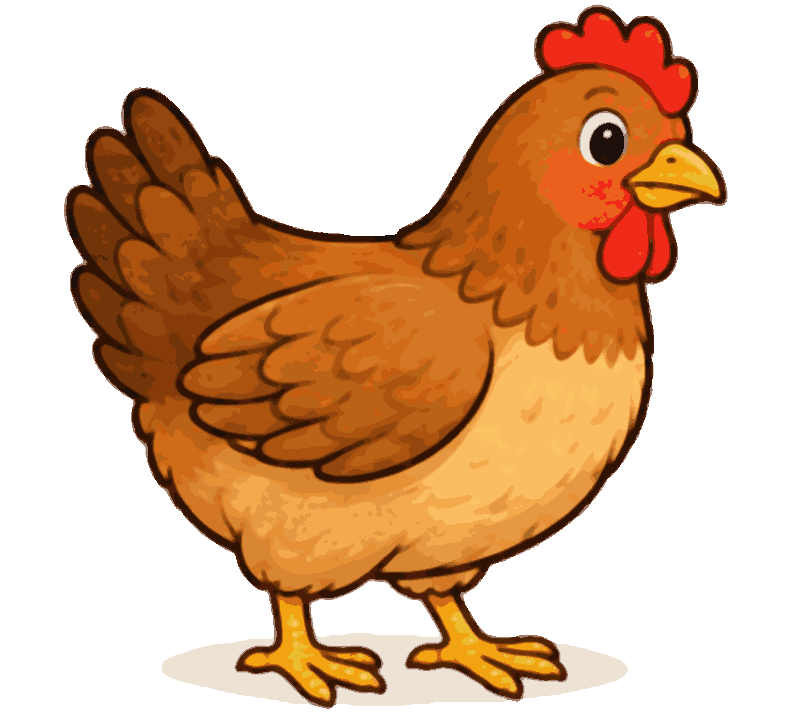
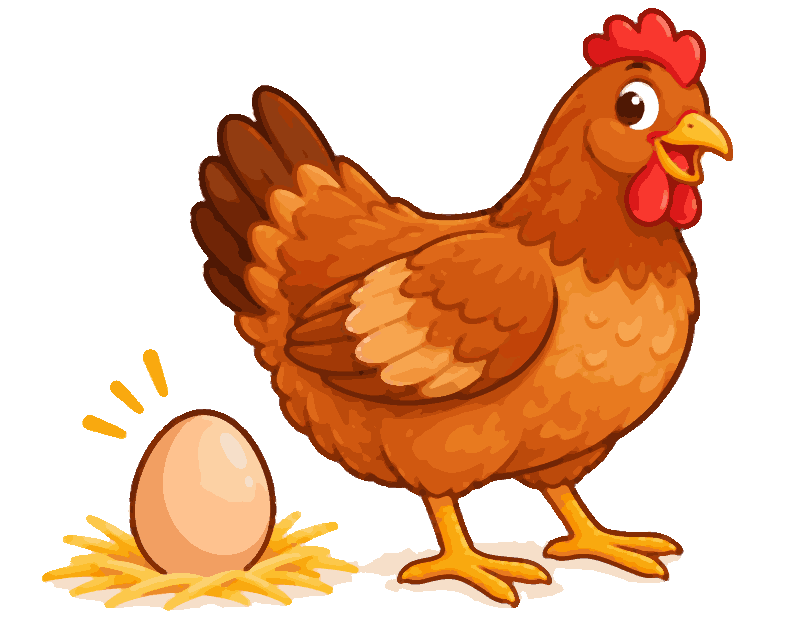
new words

diff --git a/data.js b/data.js
@@ -264,6 +264,106 @@ const cardSets = {
         word: "mop",
         rendering: "o",
         image: "images/mop.png"
+      },
+      {
+        word: "wig",
+        rendering: "i",
+        image: "images/wig-800_32.png"
+      },
+      {
+        word: "joy",
+        rendering: "o",
+        image: "images/joy-800_32.png"
+      },
+      {
+        word: "nap",
+        rendering: "a",
+        image: "images/nap-800_32.png"
+      },
+      {
+        word: "cob",
+        rendering: "o",
+        image: "images/cob-800_32.png"
+      },
+      {
+        word: "den",
+        rendering: "e",
+        image: "images/den.png"
+      },
+      {
+        word: "cod",
+        rendering: "o",
+        image: "images/cod.png"
+      },
+      {
+        word: "pox",
+        rendering: "o",
+        image: "images/pox.png"
+      },
+      {
+        word: "hop",
+        rendering: "o",
+        image: "images/hop.png"
+      },
+      {
+        word: "van",
+        rendering: "a",
+        image: "images/van.png"
+      },
+      {
+        word: "tit",
+        rendering: "i",
+        image: "images/tit.png"
+      },
+      {
+        word: "sax",
+        rendering: "a",
+        image: "images/sax.png"
+      },
+      {
+        word: "tap",
+        rendering: "a",
+        image: "images/tap.png"
+      },
+      {
+        word: "rex",
+        rendering: "e",
+        image: "images/rex.png"
+      },
+      {
+        word: "mug",
+        rendering: "u",
+        image: "images/mug.png"
+      },
+      {
+        word: "gum",
+        rendering: "u",
+        image: "images/gum-800_32.png"
+      },
+      {
+        word: "pip",
+        rendering: "i",
+        image: "images/pip.png"
+      },
+      {
+        word: "log",
+        rendering: "o",
+        image: "images/log.png"
+      },
+      {
+        word: "lap",
+        rendering: "a",
+        image: "images/lap.png"
+      },
+      {
+        word: "wax",
+        rendering: "a",
+        image: "images/wax-800_32.png"
+      },
+      {
+        word: "yum",
+        rendering: "u",
+        image: "images/yum-800_32.png"
       }
     ]
   },
@@ -309,6 +409,11 @@ const cardSets = {
         word: "lamp",
         rendering: "mp",
         image: "images/lamp.png"
+      },
+      {
+        word: "pump",
+        rendering: "mp",
+        image: "images/pump-800_32.png"
       },
       {
         word: "bump",
@@ -528,7 +633,7 @@ const cardSets = {
       {
         word: "wind",
         rendering: "nd",
-        image: "images/wand-800_32.png"
+        image: "images/wind-800_32.png"
       },
       {
         word: "pond",
